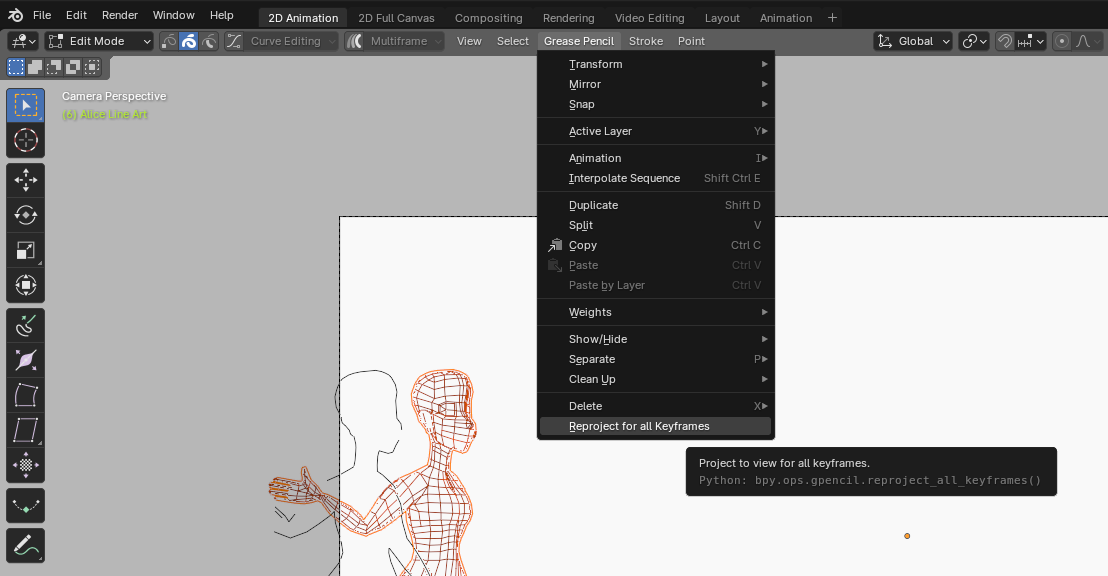
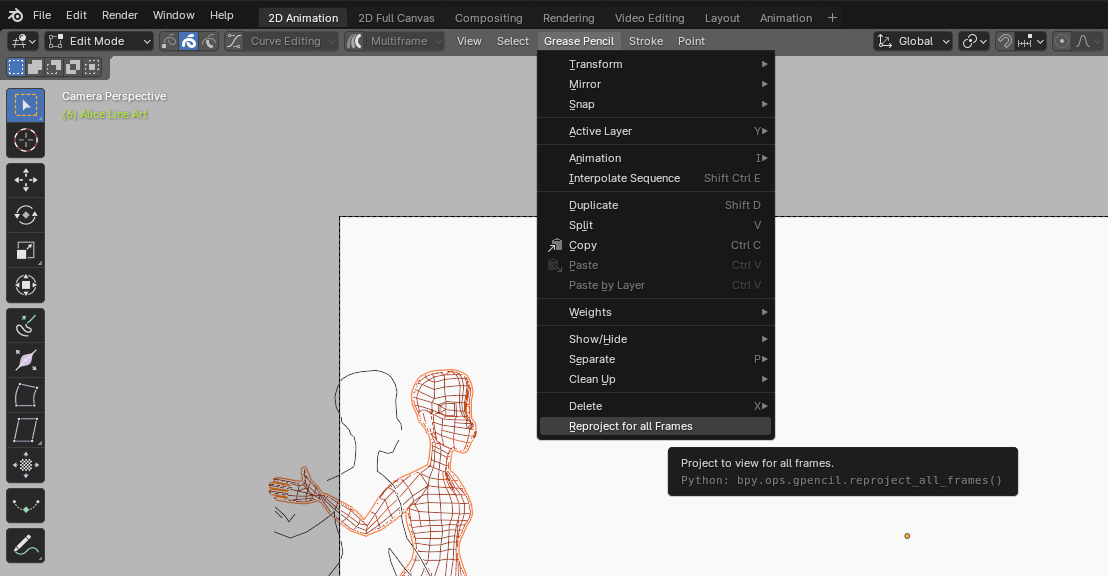
Rename every occurrence of "keyframe" to "frame"

Changed region(s): [[0.583, 0.75, 0.9819, 0.875], [0.583, 0.7188, 0.6444, 0.75]]

diff --git a/gp_reproject_all_frames.py b/gp_reproject_all_frames.py
@@ -1,15 +1,15 @@
 bl_info = {
-    "name": "GreasePencil: Project to View for all Keyframes",
+    "name": "GreasePencil: Project to View for all Frames",
     "blender": (4, 0, 2),
     "category": ""
 }
 import bpy
 
 
-class GpReprojectAllKeyframesOperator(bpy.types.Operator):
-    """Project to view for all keyframes"""
-    bl_idname = "gpencil.reproject_all_keyframes"
-    bl_label = "Reproject for all Keyframes"
+class GpReprojectAllFramesOperator(bpy.types.Operator):
+    """Project to view for all frames"""
+    bl_idname = "gpencil.reproject_all_frames"
+    bl_label = "Reproject for all Frames"
 
     @classmethod
     def poll(cls, context):
@@ -22,27 +22,25 @@ class GpReprojectAllKeyframesOperator(bpy.types.Operator):
 
         i = 0
         while scene.frame_current <= scene.frame_end and i < 1000:
-            print("Reprojecting frame " + str(scene.frame_current))
             bpy.ops.gpencil.select_all(action='SELECT')
             bpy.ops.gpencil.reproject(type='VIEW', keep_original=False, offset=0.0)
-            #bpy.ops.screen.keyframe_jump(next=True)
             bpy.ops.screen.frame_offset(delta=1)
             i += 1
         return {'FINISHED'}
 
 
 def menu_func(self, context):
-    self.layout.operator(GpReprojectAllKeyframesOperator.bl_idname,
-                         text=GpReprojectAllKeyframesOperator.bl_label)
+    self.layout.operator(GpReprojectAllFramesOperator.bl_idname,
+                         text=GpReprojectAllFramesOperator.bl_label)
 
 
 def register():
-    bpy.utils.register_class(GpReprojectAllKeyframesOperator)
+    bpy.utils.register_class(GpReprojectAllFramesOperator)
     bpy.types.VIEW3D_MT_edit_gpencil.append(menu_func)
 
 
 def unregister():
-    bpy.utils.unregister_class(GpReprojectAllKeyframesOperator)
+    bpy.utils.unregister_class(GpReprojectAllFramesOperator)
     bpy.types.VIEW3D_MT_edit_gpencil.remove(menu_func)
 
 

diff --git a/README.md b/README.md
@@ -1,15 +1,15 @@
-# Grease Pencil: Project to view for all keyframes
+# Grease Pencil: Project to view for all frames
 
-*Simple blender addon that adds an option to reproject Grease Pencil strokes for all keyframes at once
-It's the equivalent of executing "Grease Pencil" -> "Cleanup" -> "Reproject Strokes" for every single keyframe.*
+*Simple blender addon that adds an option to reproject Grease Pencil strokes for all frames at once
+It's the equivalent of executing "Grease Pencil" -> "Cleanup" -> "Reproject Strokes" for every single frame.*
 
 ![Showcase Picture](./showcase.png)
 
 ## Installation
 
-1. Download <a href="https://raw.githubusercontent.com/theCalcaholic/blender_gp_reproject_all_keyframes/main/gp_reproject_all_keyframes.py" download>gp_reproject_all_keyframes.py</a>
+1. Download <a href="https://raw.githubusercontent.com/theCalcaholic/blender_gp_reproject_all_frames/main/gp_reproject_all_frames.py" download>gp_reproject_all_frames.py</a>
 and save it to your computer.
 2. In the Blender Preferences go to Addon, then click "Install" and select the downloaded file.
-3. Check the checkbox to enable the plugin "GreasePencil: Project to View for all Keyframes"
+3. Check the checkbox to enable the plugin "GreasePencil: Project to View for all Frames"
 
     ![Blender addon preferences](./blender_addon_settings.png)
